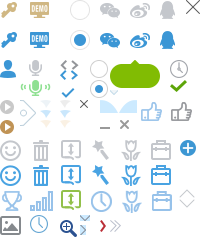
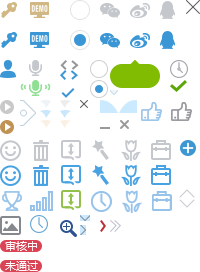
添加我的晒单状态，加载更多，浏览器兼容提示
git-svn-id: svn://172.30.3.30/pm/pm_chat/trunk@4723 53c53a5b-bfa6-924e-aae2-cbdbf9aa2596

diff --git a/template/pm/theme1/static/css/index.css b/template/pm/theme1/static/css/index.css
@@ -41,7 +41,8 @@ body{ background:#dadfe6;font-family:'Microsoft YaHei','Microsoft JhengHei','Sim
 
 /*images*/
 .mymsg .closebtn i,.message_list li i,.guideli .support,.roomctrl i,.mod_userlist .headimg b,.rbox_top .rname i,.rbox_top .peo_num i,.hqbox li i,.votebox a,.notebtn.on i,.calendar_table .stars span,.error i,.per_item .level i,.per_item .tipbtn i,.upg_tip i,.kh-btn a i,.mult_dialog .close,.mult_dialog .num,.mult_dialog .headimg b,.pletter_win .pl_close,.pletter_win .pl_small,.tec_videolist .list-icon i,.tec_videolist .v_name i,.tec_videolist .refresh-icon i,.cate_box .cate_name i,.cate_box li a i,.nextbox .live_time i,.pletter_win .whcls > i,.sd_ul .cont > i,.sd_pages .arr i,.sd_stat p i,.usersd_list .lightbox > i,.usersd_list .support,.usersd_list .state,.mod_scrollnews a i,.mod_scrollnews .newsbtn i,.mod_scrollnews .newsclose i,.textlive li .dot{ background-image:url(../img/img_css.png); background-repeat:no-repeat;}
-.header-btn a i,.myaid i,.mod_livelist .minbox a i,.maxbox .hidebtn i,.login_option .option i,.social_icon,.sub-tabnav > a i,.numctrl i,.pop_close i,.dytable .item em i,.inp_checkbox input[type=checkbox]:checked + label > i,.inp_radio label,.inp_radio input[type=radio]:checked + label > i,.progressbar .current,.rewardpoint p .arr,.signinbtn i,.sign_vistor .vtit i,.benefit_table .tick,.live_prevlist li i,.taglist .tag i,.dialog .bubble > i,.info_push .pushclose i,.toolbar .tbtn,.toolbar .tosigninbtn i,.hdbox .hdbox-i,.stateshow .item i,.sd_bot .support i,.tabnav .khbtn i,.view_select i,.pop_small i,.nextbox .live_time i,.picpart .imgbox i,.sd_ul .cont .i-zoom,.ligg_st .st i,.detail_ph .ph_cont .picbox i,.skilldata .pdname i,.train_ad .actrulebtn i,.detail_ph .t_list li .arrow{ background-image:url(../img/icons.png); background-repeat:no-repeat; background-position: 0 0}
+.header-btn a i,.myaid i,.mod_livelist .minbox a i,.maxbox .hidebtn i,.login_option .option i,.social_icon,.sub-tabnav > a i,.numctrl i,.pop_close i,.dytable .item em i,.inp_checkbox input[type=checkbox]:checked + label > i,.inp_radio label,.inp_radio input[type=radio]:checked + label > i,.progressbar .current,.rewardpoint p .arr,.signinbtn i,.sign_vistor .vtit i,.benefit_table .tick,.live_prevlist li i,.taglist .tag i,.dialog .bubble > i,.info_push .pushclose i,.toolbar .tbtn,.toolbar .tosigninbtn i,.hdbox .hdbox-i,.stateshow .item i,.sd_bot .support i,.tabnav .khbtn i,.view_select i,.pop_small i,.nextbox .live_time i,.picpart .imgbox i,.sd_ul .cont .i-zoom,.ligg_st .st i,.detail_ph .ph_cont .picbox i,.skilldata .pdname i,.train_ad .actrulebtn i,.detail_ph .t_list li .arrow,.pop_mysd .status{ background-image:url(../img/icons.png); background-repeat:no-repeat; background-position: 0 0}
+.inp_checkbox input[type=checkbox]:checked + label > i,.inp_radio label,.inp_radio input[type=radio]:checked + label > i{ background-image:url(../img/icons.png); background-repeat:no-repeat; background-position: 0 0}
 .img-loading{position:absolute;bottom:0;display:block;width:25px;height:25px;border-radius:4px;background:url(../img/loading2.gif) no-repeat center;background-size:40px 40px;z-index:9}
 
 /* header */
@@ -371,8 +372,9 @@ body{ background:#dadfe6;font-family:'Microsoft YaHei','Microsoft JhengHei','Sim
 .brieflist .imgbox img{ width: 100%; height: auto; vertical-align: top; }
 .brieflist .imgbox img{ height: auto; }
 .brieflist .picpart a{  display: block;}
-.brieflist + .morebtn{ display:block; width:100%; height:40px; text-align:center; background-color:#ececec; font-size:16px; line-height:40px; color:#444; margin-top:20px; margin-bottom:5px;}
-.brieflist + .morebtn:hover{ text-decoration: none; background: #e5e5e5}
+.livebrief_list .morebtn{ display:block; width:100%; height:40px; text-align:center; background-color:#ececec; font-size:16px; line-height:40px; color:#444; margin-top:20px; margin-bottom:5px;}
+.livebrief_list .morebtn:hover{ text-decoration: none; background: #e5e5e5}
+.brieflist .textcont .hdbox2{margin-bottom:10px;}
 
 /*聊天内容*/
 .chat_content{ position:relative; z-index:1; overflow: hidden;padding:0 20px 0 0;}
@@ -454,7 +456,7 @@ body{ background:#dadfe6;font-family:'Microsoft YaHei','Microsoft JhengHei','Sim
 
 /*@功能*/
 .dialog.showchat .dialogbtn{ display:block;}
-.dialogbtn { position:absolute; left:-10px; top:40px; width:53px;z-index:10; background:#fff; border-radius:2px; box-shadow:0 0 4px rgba(12,3,5,.3); display:none;}
+.dialogbtn { position:absolute; left:-10px; top:40px; width:53px;z-index:10; background:#fff; border-radius:2px; box-shadow:0px 1px 4px rgba(12,3,5,.2); display:none;}
 .dialogbtn .inner{ position: relative; margin-top: -1px; }
 .dialogbtn a{ display:block; height:22px; text-align:center; line-height:20px; color:#464852; font-size:12px; text-decoration:none;border-top:1px solid #ebebeb; background: none }
 .dialogbtn a:hover{ background: #f2f6fa }
@@ -470,6 +472,8 @@ body{ background:#dadfe6;font-family:'Microsoft YaHei','Microsoft JhengHei','Sim
 .dialogbtn.bot.one a.d1 b{ display: block;border-color:#fff transparent transparent  transparent ; bottom:-10px; top: auto }
 .dialogbtn.bot.one a.d1:hover b{ border-color:#c49351 transparent transparent  transparent ; }
 .dialogbtn.bot a.d1 b{ display: none; }
+.txt_dia{ color: #3b96d5;margin-right: 5px; cursor: pointer; }
+.txt_dia label{cursor: pointer;}
 
 /*下拉*/
 .view_select{ width:115px;float:right; height:26px; position:absolute; top:15px; right:20px; z-index:20; cursor:pointer}
@@ -600,7 +604,12 @@ body{ background:#dadfe6;font-family:'Microsoft YaHei','Microsoft JhengHei','Sim
 .sd_result .kh-btn a.fl:hover{ background-color: #c58735 }
 .popup_box.pop_addsd{ margin-top: -260px; }
 .popup_box.pop_mysd{ margin-top: -315px; height: 630px; }
-.pop_mysd .sd_show.sd_list .sd_ul{ margin-bottom: 30px; }
+.pop_mysd .sd_show .sd_ul li{ margin-top: 10px; }
+.pop_mysd .sd_list .sd_summary{ position: relative; padding:5px 0 ; }
+.pop_mysd .sd_list .checking .sd_summary,.pop_mysd .sd_list .failed .sd_summary{ padding-right: 40px; }
+.pop_mysd .status {display: none; width: 42px; height: 12px; position: absolute; right: 0; top: 10px;}
+.pop_mysd .checking .status{ display: block; background-position: 0 -240px; }
+.pop_mysd .failed .status{ display: block; background-position: 0 -260px; }
 
 /*行情直播*/
 .mod_room{ height:150px;border-bottom:5px solid #1e2d58;border-bottom:5px solid rgba(5,15,36,.6); position: relative;}
@@ -1237,6 +1246,24 @@ body{ background:#dadfe6;font-family:'Microsoft YaHei','Microsoft JhengHei','Sim
 .mod_scrollnews .newsclose{ display: block; width:10px; height: 10px; padding: 10px 8.5px; position: absolute; right: 0; top: 0  }
 .mod_scrollnews .newsclose i{ display: block;width:10px; height: 10px; background-position: -140px -300px; }
 
+/*兼容提示*/
+.ie_upgrade{ display: none; position: fixed; bottom: 0; left: 0; width: 100%;  text-align: center; border-top: 2px solid #ececec; z-index: 1000 }
+.lt-ie8 .ie_upgrade,.lt-ie9 .ie_upgrade{display: block;}
+.ie_upgrade .ietip{ background: #f7f7f7;padding: 15px 0;}
+.ie_upgrade span{ display: inline-block;*display: inline;*zoom: 1; color: #444; font-size: 14px; line-height: 24px;  }
+.ie_upgrade span a{ color: #cb5055 }
+.ie_upgrade .iewhybtn{ display: inline-block;*display: inline;*zoom: 1; background: #3b96d5; font-size: 14px; line-height: 24px; color: #fff;  width: 80px; border-radius: 3px ; margin-left: 20px;}
+.ie_upgrade .iewhybtn:hover { background: #2587cb; text-decoration: none; }
+.ie_upgrade .iestory{ background: rgb(254, 251, 211);padding: 20px 0; display: none; }
+.iestory .cont{ width: 800px; margin: 0 auto; position: relative; }
+.iestory span{ font-size: 24px; display: inline-block;*display: inline;*zoom: 1;  margin-top: 20px; position: absolute; left: 0; font-weight: bold;}
+.iestory img{ vertical-align: top; }
+.iestory .closebtn{ display: block; width: 14px; height: 14px; position: absolute; right: 0; top: 20px; padding: 10px; background: #efefef; border-radius: 50% }
+.iestory .closebtn i{display: block; width: 14px; height: 14px; background-position: right 0; line-height: 0; font-size: 0; }
+.iestory .closebtn:hover { background: #e2e2e1 }
+
+/* rewrite */
+.swiper-slide{ overflow: hidden; }
 
 /*复写滚动条*/
 .mCSB_inside>.mCSB_container{ margin-right:12px}

diff --git a/template/pm/theme1/static/js/index_chat_showtrade.js b/template/pm/theme1/static/js/index_chat_showtrade.js
@@ -122,17 +122,28 @@ var chatShowTrade = {
         var listData = chatShowTrade.tradeList;
         var row = null;
         var length = listData.length;
-        var tradeHtml='',tradeFormat = common.isBlank(chatShowTrade.tradeForUser) ? chatShowTrade.formatHtml('showTradeAll') : chatShowTrade.formatHtml('showTradeUser');
+        var tradeHtml='',tradeFormat = common.isBlank(chatShowTrade.tradeForUser) ? chatShowTrade.formatHtml('showTradeAll') : chatShowTrade.formatHtml('showTradeUser'),cls;
         for(var i = start; i < length && i < start + 20; i++){
             row = listData[i];
             if($('#showTradeDiv .sd_ul li[sid="'+row._id+'"]').length>0 && common.isBlank(chatShowTrade.tradeForUser)){
                 continue;
             }
+            switch (row.status){
+                case 1:
+                    cls = '';
+                    break;
+                case 0:
+                    cls = ' class="checking"';
+                    break;
+                case -1:
+                    cls = ' class="failed"';
+                    break;
+            }
             var showTradeDate = common.formatterDateTime(row.showDate,'/').substr(5,11);
             if(common.isBlank(chatShowTrade.tradeForUser)){
                 tradeHtml += tradeFormat.formatStr(row.title, row.user.userName, showTradeDate, row.tradeImg, row.remark, common.isBlank(row.praise)?0:row.praise, row._id, row.user.userNo, row.user.avatar);
             }else{
-                tradeHtml += tradeFormat.formatStr(row.title, showTradeDate, row.tradeImg, row.remark, common.isBlank(row.praise)?0:row.praise, row._id);
+                tradeHtml += tradeFormat.formatStr(row.title, showTradeDate, row.tradeImg, row.remark, common.isBlank(row.praise)?0:row.praise, row._id, cls);
             }
         }
         if(common.isBlank(chatShowTrade.tradeForUser)) {
@@ -331,9 +342,9 @@ var chatShowTrade = {
                 formatHtmlArr.push('</li>');
                 break;
             case 'showTradeUser':
-                formatHtmlArr.push('<li>');
+                formatHtmlArr.push('<li{6}>');
                 formatHtmlArr.push('    <div class="cont">');
-                formatHtmlArr.push('        <div class="sd_summary">{0}</div>');
+                formatHtmlArr.push('        <div class="sd_summary">{0}<i class="status"></i></div>');
                 formatHtmlArr.push('        <div class="sd_tit"><span class="sdtime">晒单时间: {1}</span></div>');
                 formatHtmlArr.push('        <a href="{2}" data-rel="sd-img" data-title="{0}" data-lightbox="my-dialog-img"><img src="{2}" alt="{0}" class="mCS_img_loaded"><i class="i-zoom"></i></a>');
                 formatHtmlArr.push('        <p class="sd_p">{3}</p>');

diff --git a/template/pm/theme1/view/index_box.html b/template/pm/theme1/view/index_box.html
@@ -836,3 +836,18 @@
         <a class="pop_close" href="javascript:void(0)"><i>关闭</i></a>
     </div>
 </div>
+
+<!-- 兼容提示 -->
+<div class="ie_upgrade dn">
+    <div class="ietip">
+        <span>啊！页面乱了！因为直播间不再支持IE9以下版本，我们推荐你<a href="https://ie.microsoft.com" rel=nofollow target=_blank>更新你的浏览器</a>，或使用<a href="http://www.baidu.com/s?wd=%E6%B5%8F%E8%A7%88%E5%99%A8" rel=nofollow target=_blank>其他浏览器</a>。</span>
+        <a class="iewhybtn" href="javascript:void(0)">为什么</a>
+    </div>
+    <div class="iestory">
+        <div class="cont">
+            <span>IE的故事 </span>
+            <img src="../static/img/ie-story.png" alt="">
+            <a href="javascript:void(0)" class="closebtn"><i>关闭</i></a>
+        </div>
+    </div>
+</div>

diff --git a/template/pm/theme1/view/index_chat.html b/template/pm/theme1/view/index_chat.html
@@ -37,8 +37,8 @@
                 <div class="livebrief_list">
                     <div class="scrollbox">
                         <div id="textlivePanel"></div>
+                        <a id="textliveMore" href="javascript:void(0);" class="morebtn" style="">加载更多</a>
                     </div>
-                    <a id="textliveMore" href="javascript:void(0)" class="morebtn" style="display:none;">加载更多</a>
                 </div>
             </div>
             <div class="main_tab" t="chat">
